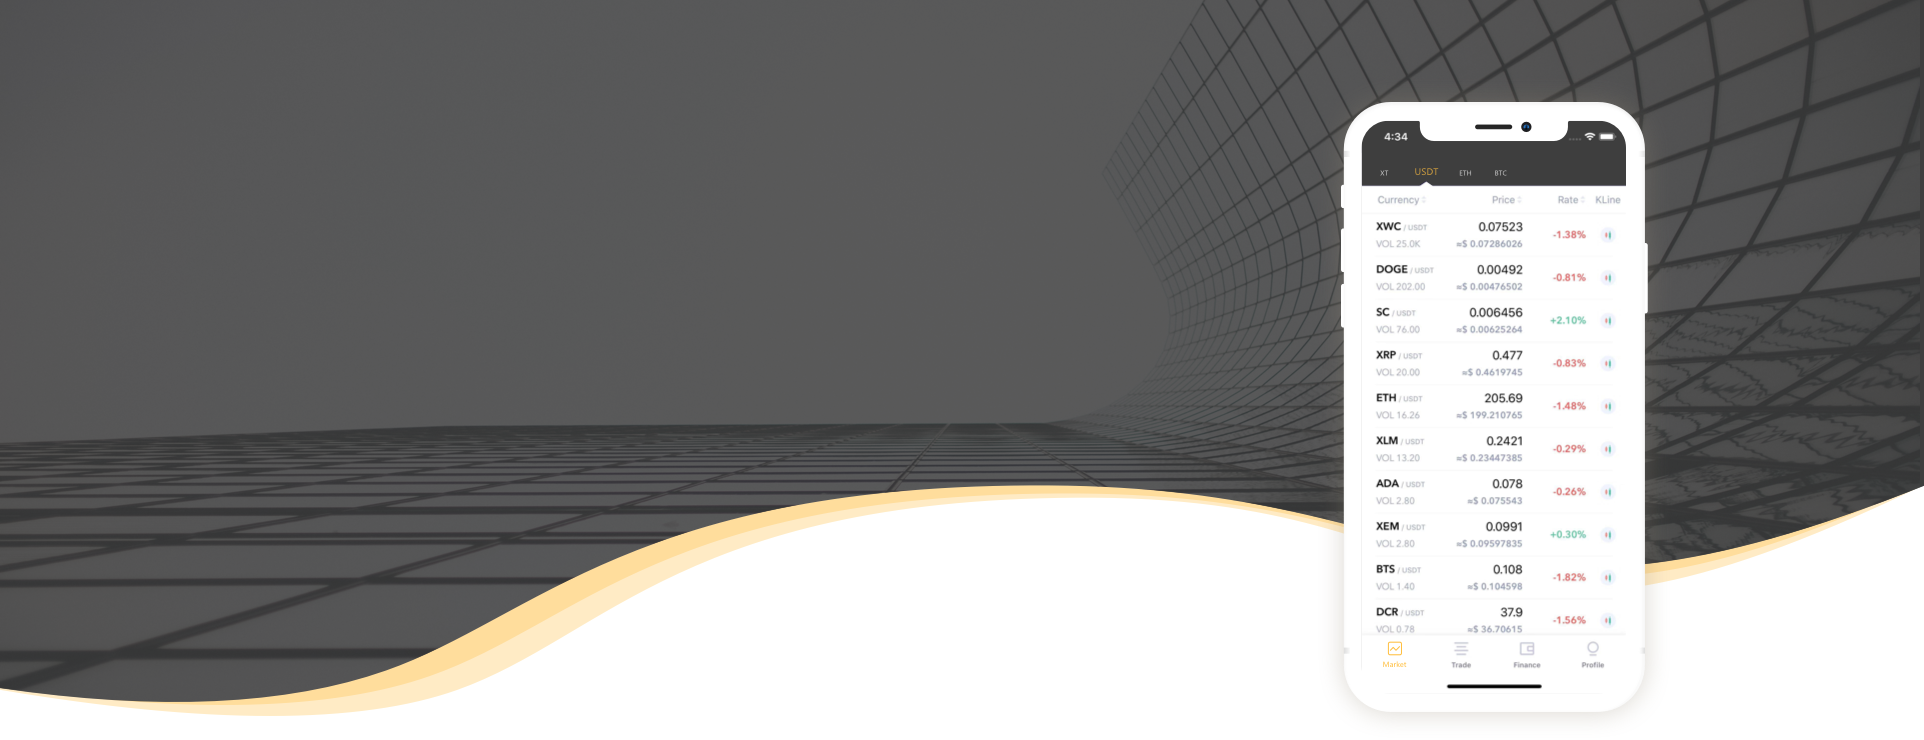
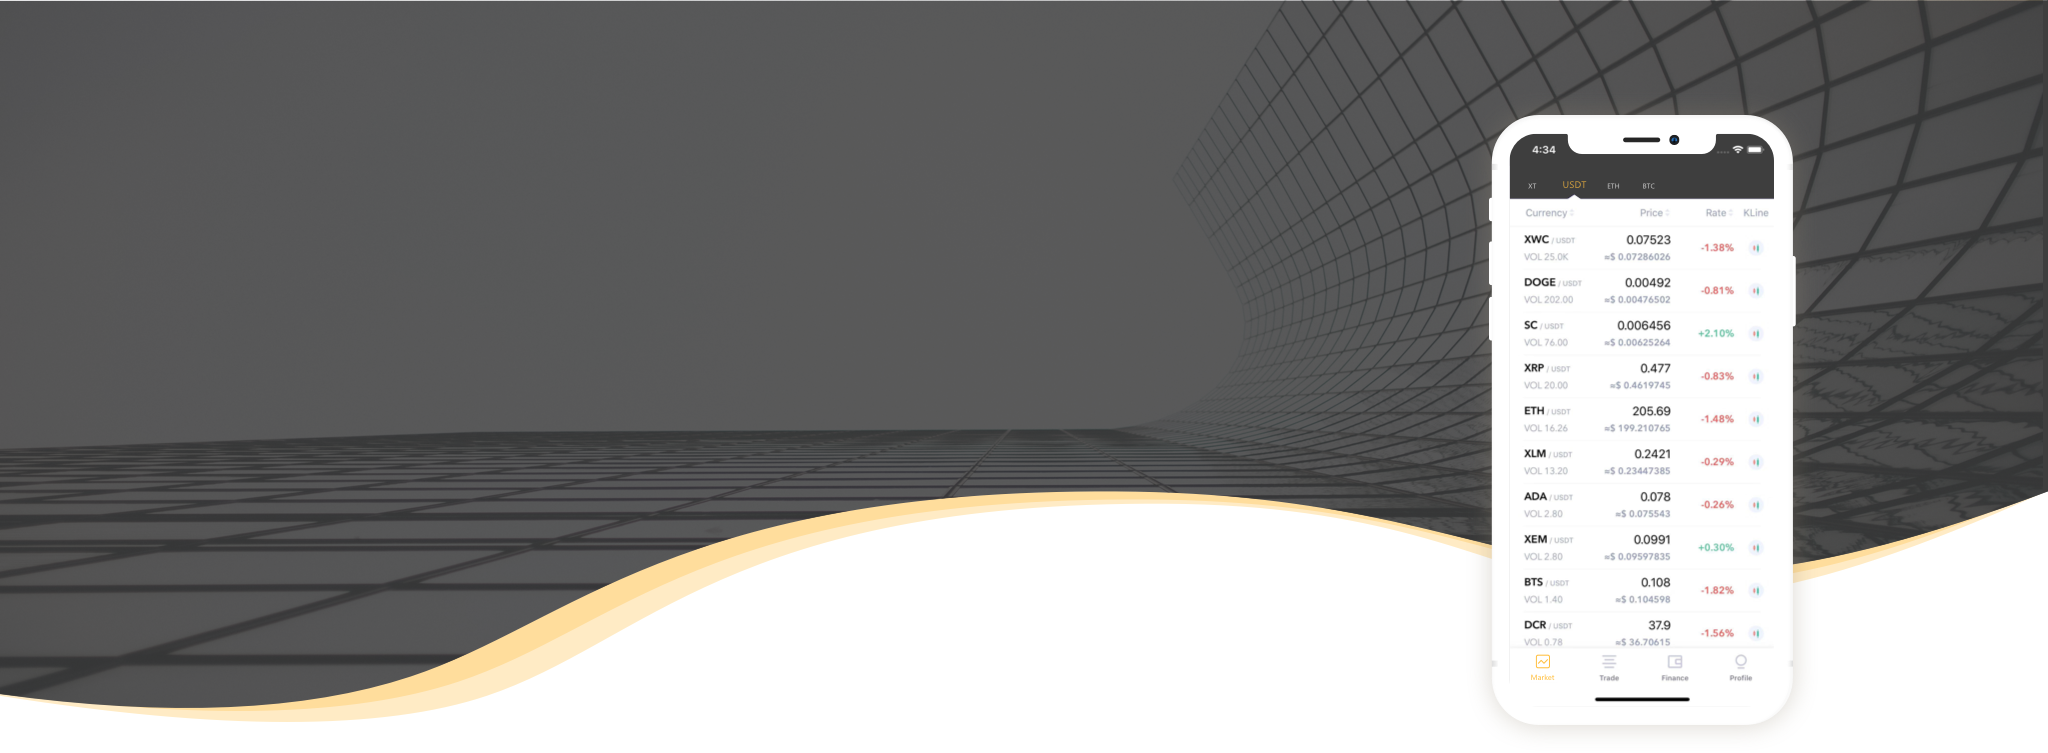
解决SC/BTC,DOGE/BTC最新价显示为0bug

diff --git a/views/cn/zbg/index.html b/views/cn/zbg/index.html
@@ -2375,13 +2375,16 @@
                     if (isNaN(val)) {
                         return '--'
                     } else {
-                        var reg = /^-?\d+$/; //添加一个判断，当小数点后面前4位都为0的时候，截取到第五位  以此类推
-                        if (reg.test(Methods.fixDecimal(val, 4))) {
-                            return Methods.fixDecimal(val, 5);
-                        } else {
-                            return Methods.fixDecimal(val, 4);
-                        }
+                        // var reg = /^-?\d+$/; //添加一个判断，当小数点后面前4位都为0的时候，截取到第五位  以此类推
+                        // if (reg.test(Methods.fixDecimal(val, 4))) {
+                        //     console.log(val,"ok")
+                        //     return Methods.fixDecimal(val, 5);
+                        // } else {
+                        //     return Methods.fixDecimal(val, 4);
+                        // }
+                        return val;
                     }
+                    
                 },
                 getMarketAreaListByWebId: function () {
                     Methods.ajax({

diff --git a/views/cn/zbg/app.html b/views/cn/zbg/app.html
@@ -30,11 +30,13 @@
     <link rel="stylesheet" type="text/css" href="<%= STATIC %>/styles/cssdna.css?<%= VERSION %>">
     <style>
         .app-bg {
-            background: url('/src/images/app/appstore-BG.png') no-repeat center center;
             position: absolute;
             top: 0px;
             width: 100%;
-            height: 740px;
+        }
+
+        .app-bg img {
+            width: 100%;
         }
 
         body {
@@ -203,6 +205,7 @@
             font-size: 32px;
             font-weight: 300;
             margin-bottom: 50px;
+            color: #666;
         }
 
 
@@ -305,7 +308,9 @@
     <!-- banner starts
 ============================================ -->
     <section class="app-download" id="App">
-        <div class="app-bg"></div>
+        <div class="app-bg">
+            <img src="/src/images/app/appstore-BG.png">
+        </div>
         <div class="container">
             <div class="download-wrapper">
                 <div class="download-txt">
